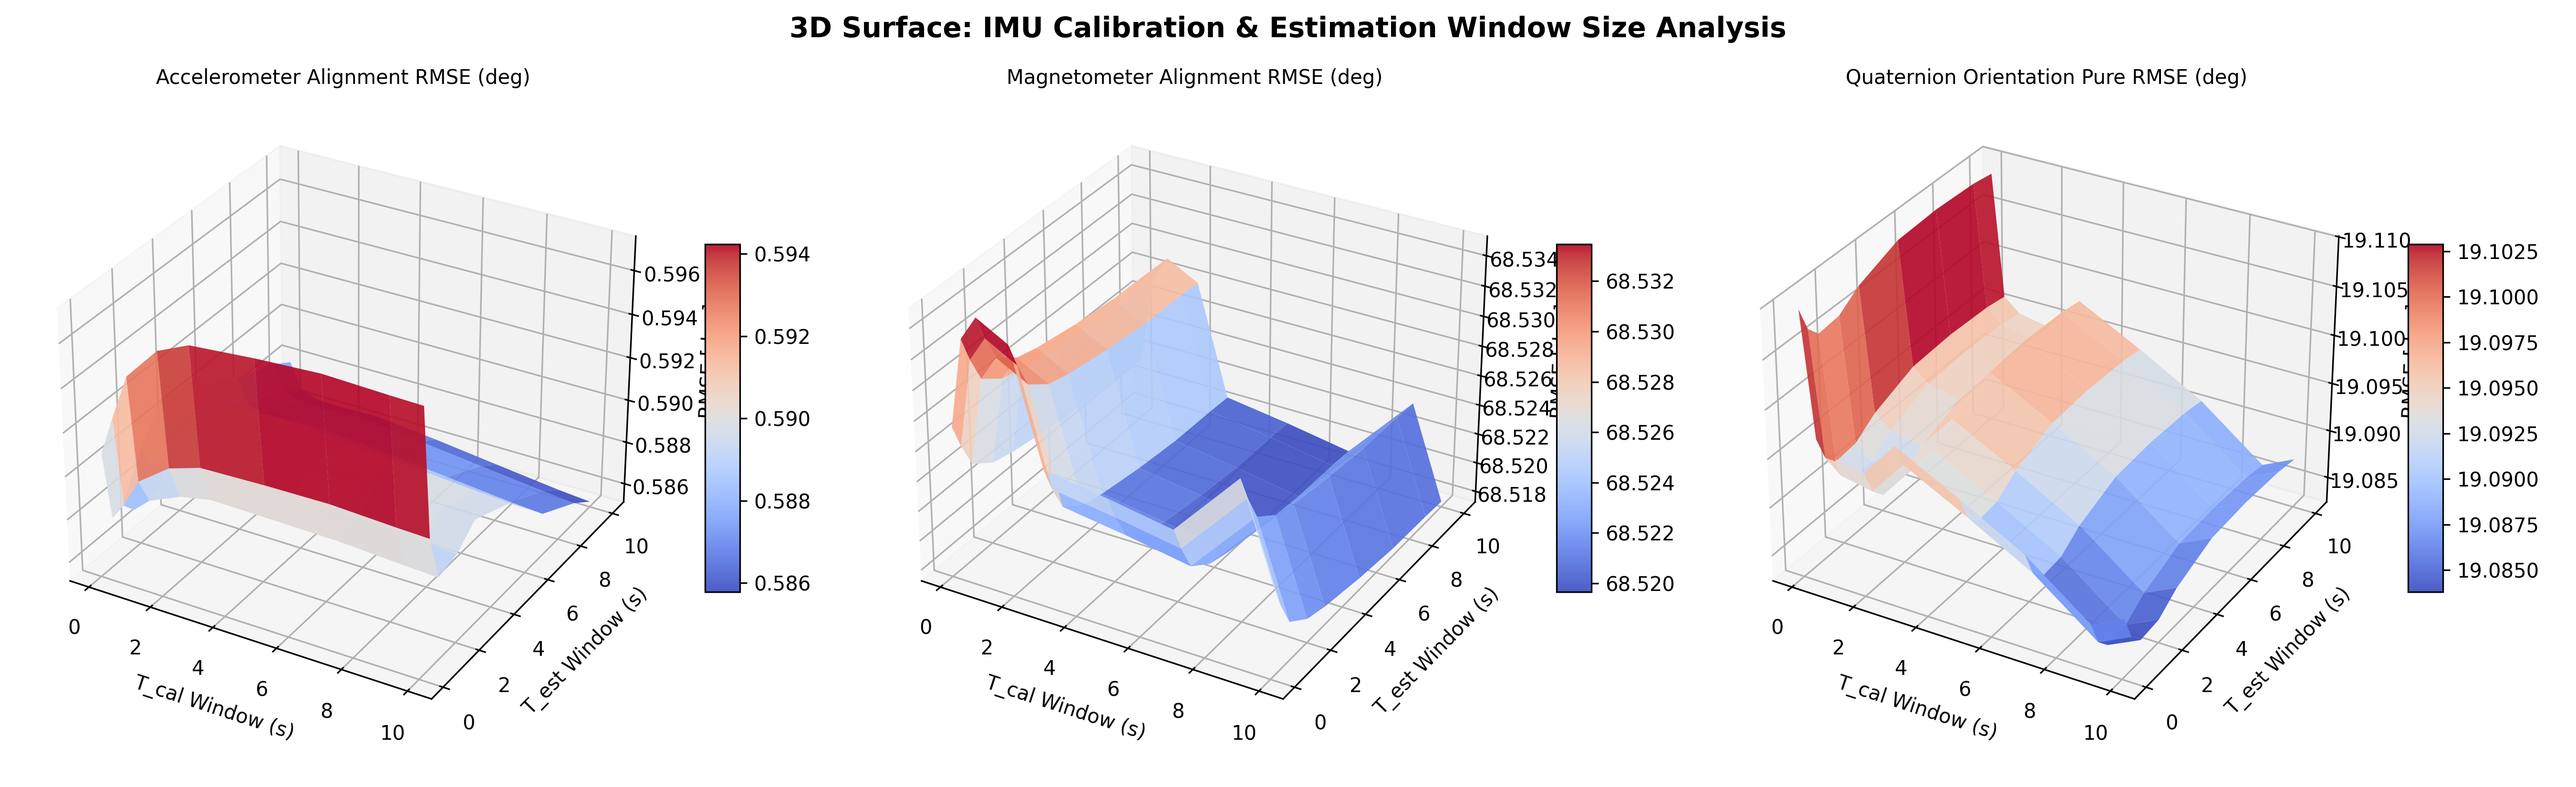
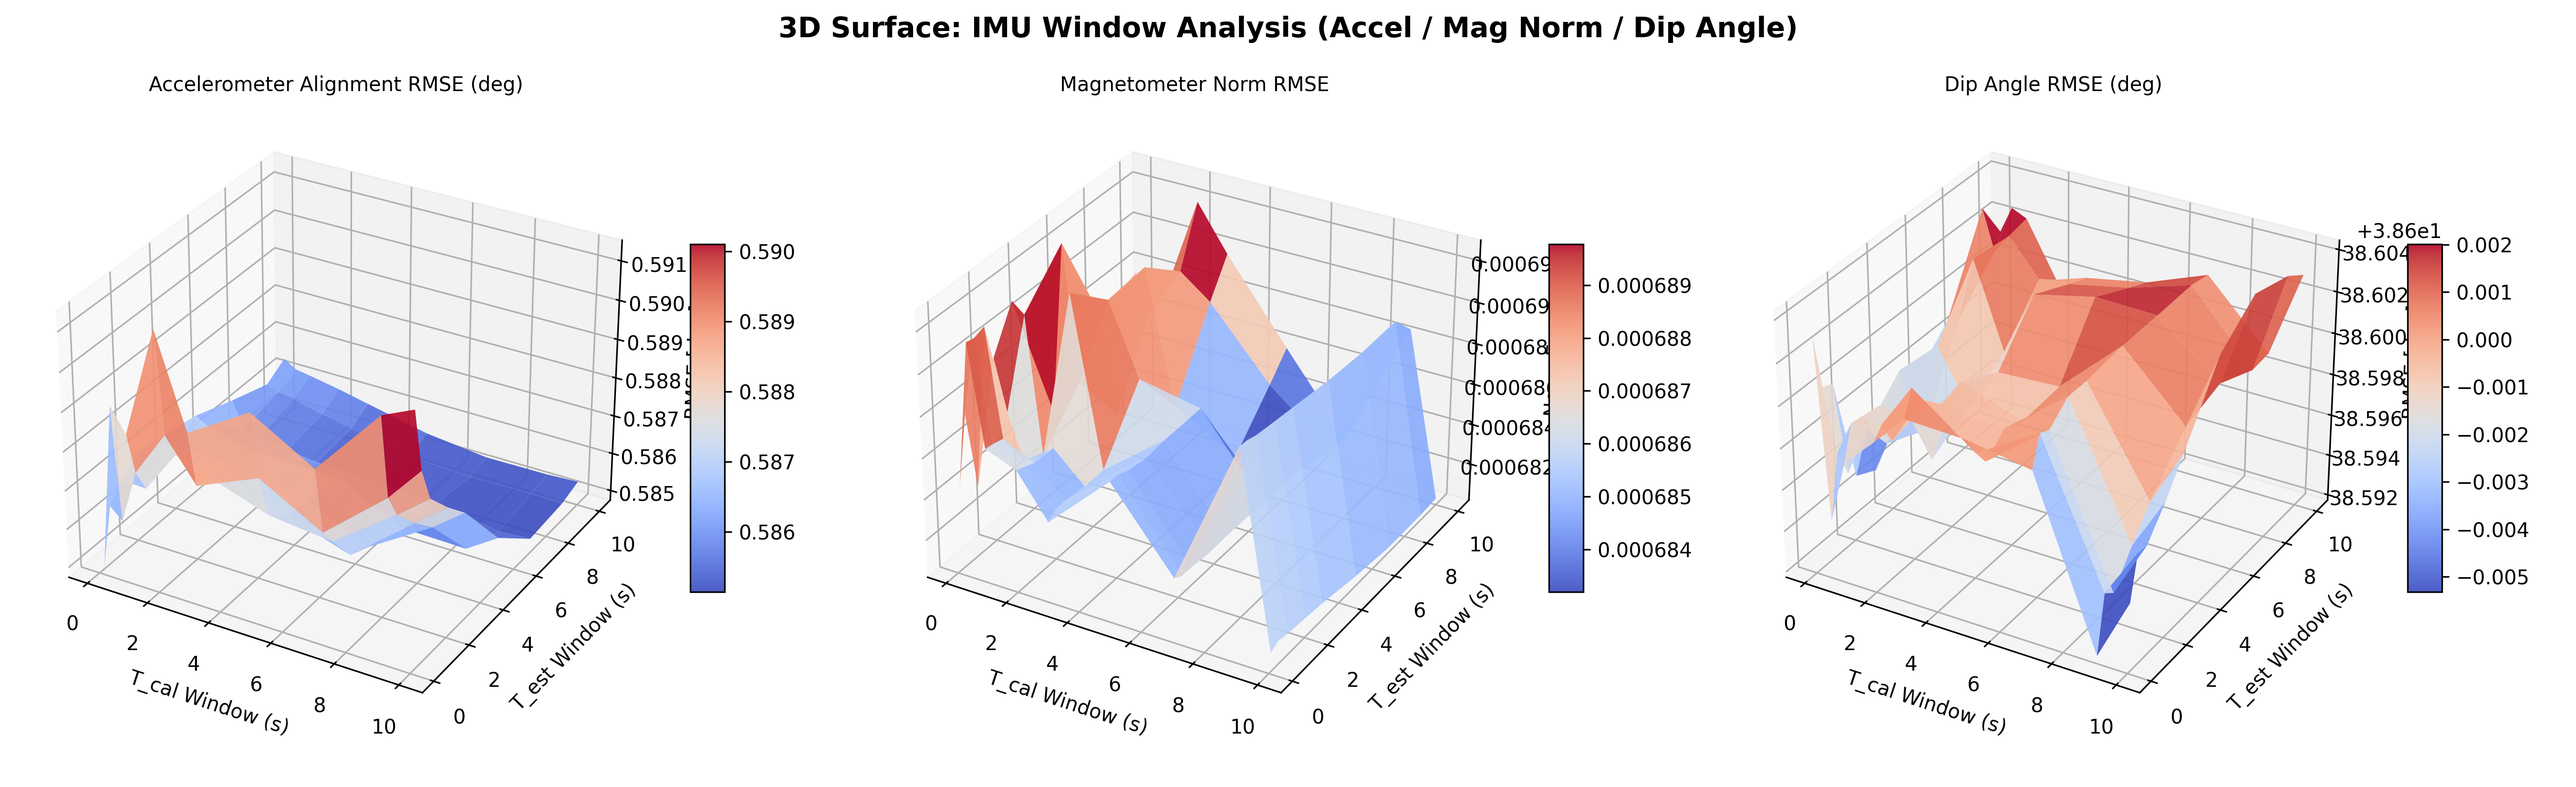
Update window analysis to use mag norm and dip angle RMSE

diff --git a/verification_tool/test_phase3_2_window_analysis.py b/verification_tool/test_phase3_2_window_analysis.py
@@ -146,7 +146,7 @@ def main():
     q_gt_lut, R_sensor_to_ned_lut = compute_theoretical_gt_quaternions(normals_jig, R_mount)
     rot_normals = icosahedron.get_rotated_normals()
     
-    # 3. 전체 데이터 기준 자북 레퍼런스 벡터 사전 구정 (Inclination 바이어스 튜닝)
+    # 3. 전체 데이터 기준 복각 레퍼런스 평균 사전 구정 (Inclination 바이어스 튜닝)
     acc_mean_all = np.mean(acc_100s, axis=1)
     mag_mean_all = np.mean(mag_100s, axis=1)
     
@@ -157,14 +157,14 @@ def main():
     acc_cal_all = (W_acc_all @ (acc_mean_all - b_acc_all).T).T
     mag_cal_all = (W_mag_all @ (mag_mean_all - b_mag_all).T).T
     
-    m_ned_list = []
-    for i in range(20):
-        best_idx = best_indices[i]
-        m_ned = R_sensor_to_ned_lut[best_idx] @ mag_cal_all[i]
-        m_ned_list.append(m_ned)
-    m_ned_mean = np.mean(m_ned_list, axis=0)
-    m_ned_ref = m_ned_mean / np.linalg.norm(m_ned_mean)
-    print(f"📡 튜닝된 3D 자북 레퍼런스 벡터 (m_ned_ref): {m_ned_ref}")
+    dip_ref_list = []
+    for k in range(20):
+        a_vec = acc_cal_all[k] / np.linalg.norm(acc_cal_all[k])
+        m_vec = mag_cal_all[k] / np.linalg.norm(mag_cal_all[k])
+        dot_val = np.clip(np.dot(a_vec, m_vec), -1.0, 1.0)
+        dip_ref_list.append(90.0 - np.degrees(np.arccos(dot_val)))
+    dip_ref_mean = np.mean(dip_ref_list)
+    print(f"📡 튜닝된 전역 기준 복각 평균 (dip_ref_mean): {dip_ref_mean:.2f} deg")
     
     # 4. 윈도우 그리드 정의 (수집 데이터 크기에 비례하되 최대 10.0초로 상한 제약 적용)
     ratios = np.array([0.01, 0.05, 0.1, 0.2, 0.3, 0.5, 0.7, 0.9, 1.0])
@@ -192,9 +192,9 @@ def main():
     txt_report_lines.append(" 🎯 IMU Phase 3.2 Calibration vs Est Window Analysis Report (Sliding Window 6-Ensemble)")
     txt_report_lines.append("=" * 80)
     txt_report_lines.append(f"Data Source: collected_data_100s.npz")
-    txt_report_lines.append(f"3D Local Earth Magnetic Vector Reference (NED): {m_ned_ref.tolist()}")
+    txt_report_lines.append(f"Tuned Dip Angle Reference: {dip_ref_mean:.4f} deg")
     txt_report_lines.append("-" * 80)
-    txt_report_lines.append(f"{'T_cal (s)':<12}{'T_est (s)':<12}{'Accel RMSE (deg)':<20}{'Mag RMSE (deg)':<18}{'Quaternion RMSE (deg)':<22}")
+    txt_report_lines.append(f"{'T_cal (s)':<12}{'T_est (s)':<12}{'Accel RMSE (deg)':<20}{'Mag Norm RMSE':<18}{'Dip RMSE (deg)':<22}")
     txt_report_lines.append("-" * 80)
     
     # 대표 T_cal (최소, 중간, 최대) 선정 및 데이터 저장소 정의
@@ -266,8 +266,8 @@ def main():
                 
                 # 가속도 및 자력계 정합 오차(각도 에러) 계산
                 g_errors = []
-                m_errors = []
-                q_est_list = []
+                m_norm_errors = []
+                dip_errors = []
                 
                 for k in range(20):
                     best_idx = best_indices[k]
@@ -279,45 +279,25 @@ def main():
                     dot_g = np.clip(np.dot(g_gt_sensor, g_est_sensor), -1.0, 1.0)
                     g_errors.append(np.degrees(np.arccos(dot_g)))
                     
-                    # 자력계 각도 오차
-                    m_gt_sensor = R_s2n.T @ m_ned_ref
-                    m_est_sensor = mag_est_cal[k] / np.linalg.norm(mag_est_cal[k])
-                    dot_m = np.clip(np.dot(m_gt_sensor, m_est_sensor), -1.0, 1.0)
-                    m_errors.append(np.degrees(np.arccos(dot_m)))
+                    # 자력계 크기 오차 (놈과 1.0의 잔차)
+                    m_norm = np.linalg.norm(mag_est_cal[k])
+                    m_norm_errors.append(m_norm - 1.0)
                     
-                    # SVD 자세 추정
-                    v_sensor = np.array([g_est_sensor, m_est_sensor])
-                    v_ned = np.array([np.array([0.0, 0.0, 1.0]), m_ned_ref])
-                    res_rot, _ = R_scipy.align_vectors(v_ned, v_sensor)
-                    q_scipy = res_rot.as_quat()
-                    q_est = np.array([q_scipy[3], q_scipy[0], q_scipy[1], q_scipy[2]])
-                    q_est_list.append(q_est)
-                    
-                # 0번 면 기준 Yaw 정렬 오프셋 산출
-                q_gt0 = q_gt_lut[best_indices[0]]
-                q_est0 = q_est_list[0]
-                q_offset = q_mult(q_gt0, q_conj(q_est0))
-                q_offset /= np.linalg.norm(q_offset)
-                
-                # Modulo 보상 후 쿼터니언 순수 오차 산출
-                ideal_jig_offsets = [0.0, 60.0, 120.0, 180.0]
-                q_errors = []
-                for k in range(20):
-                    best_idx = best_indices[k]
-                    q_est_aligned = q_mult(q_offset, q_est_list[k])
-                    q_est_aligned /= np.linalg.norm(q_est_aligned)
-                    err_deg = q_angle_error(q_gt_lut[best_idx], q_est_aligned)
-                    residual_err = min(abs(err_deg - offset) for offset in ideal_jig_offsets)
-                    q_errors.append(residual_err)
+                    # 중력-자자기 사잇각 복각 및 기준 복각과의 오차 계산
+                    a_est_unit = acc_est_cal[k] / np.linalg.norm(acc_est_cal[k])
+                    m_est_unit = mag_est_cal[k] / np.linalg.norm(mag_est_cal[k])
+                    dot_am = np.clip(np.dot(a_est_unit, m_est_unit), -1.0, 1.0)
+                    dip_val = 90.0 - np.degrees(np.arccos(dot_am))
+                    dip_errors.append(dip_val - dip_ref_mean)
                     
                 # 20개 포지션에 대한 RMSE 도출
                 rmse_acc = np.sqrt(np.mean(np.array(g_errors)**2))
-                rmse_mag = np.sqrt(np.mean(np.array(m_errors)**2))
-                rmse_quat = np.sqrt(np.mean(np.array(q_errors)**2))
+                rmse_mag_norm = np.sqrt(np.mean(np.array(m_norm_errors)**2))
+                rmse_dip = np.sqrt(np.mean(np.array(dip_errors)**2))
                 
                 iter_rmse_acc.append(rmse_acc)
-                iter_rmse_mag.append(rmse_mag)
-                iter_rmse_quat.append(rmse_quat)
+                iter_rmse_mag.append(rmse_mag_norm)
+                iter_rmse_quat.append(rmse_dip)
                 
             # 앙상블 평균 저장
             Z_acc[j, i] = np.mean(iter_rmse_acc)
@@ -334,7 +314,7 @@ def main():
     
     # 6. 3D Surface 시각화 및 플롯 저장
     fig = plt.figure(figsize=(18, 5.5))
-    fig.suptitle("3D Surface: IMU Calibration & Estimation Window Size Analysis", fontsize=14, fontweight='bold')
+    fig.suptitle("3D Surface: IMU Window Analysis (Accel / Mag Norm / Dip Angle)", fontsize=14, fontweight='bold')
     
     # Subplot 1: 가속도계 정합 오차
     ax1 = fig.add_subplot(1, 3, 1, projection='3d')
@@ -345,19 +325,19 @@ def main():
     ax1.set_zlabel("RMSE [deg]")
     fig.colorbar(surf1, ax=ax1, shrink=0.5, aspect=10)
     
-    # Subplot 2: 자력계 정합 오차
+    # Subplot 2: 자력계 놈 오차
     ax2 = fig.add_subplot(1, 3, 2, projection='3d')
     surf2 = ax2.plot_surface(X, Y, Z_mag, cmap='coolwarm', edgecolor='none', alpha=0.9)
-    ax2.set_title("Magnetometer Alignment RMSE (deg)", fontsize=10)
+    ax2.set_title("Magnetometer Norm RMSE", fontsize=10)
     ax2.set_xlabel("T_cal Window (s)")
     ax2.set_ylabel("T_est Window (s)")
-    ax2.set_zlabel("RMSE [deg]")
+    ax2.set_zlabel("Norm Error")
     fig.colorbar(surf2, ax=ax2, shrink=0.5, aspect=10)
     
-    # Subplot 3: 쿼터니언 자세 오차
+    # Subplot 3: 중력-자지기 복각 오차
     ax3 = fig.add_subplot(1, 3, 3, projection='3d')
     surf3 = ax3.plot_surface(X, Y, Z_quat, cmap='coolwarm', edgecolor='none', alpha=0.9)
-    ax3.set_title("Quaternion Orientation Pure RMSE (deg)", fontsize=10)
+    ax3.set_title("Dip Angle RMSE (deg)", fontsize=10)
     ax3.set_xlabel("T_cal Window (s)")
     ax3.set_ylabel("T_est Window (s)")
     ax3.set_zlabel("RMSE [deg]")

diff --git a/record.md b/record.md
@@ -1,0 +1,22 @@
+# IMU Project Modification Record
+
+## 1. 수정 이유
+Yaw 축 회전의 무작위 오차에 종속적인 기존 자력계 평가 지표 대신, 회전에 무관하고 강건한 물리량인 지자기 크기(Norm) 오차 및 중력선-지자기 사잇각(복각, Dip Angle) 오차를 기반으로 윈도우 최적화 분석을 재설계하기 위함.
+
+## 2. 수정 계획 및 예상 결과
+- 분석 스크립트인 test_phase3_2_window_analysis.py 내 연산 식을 지자기 Norm-1.0 및 복각 RMSE 기준으로 교체.
+- 최대 윈도우 분석 시간을 10.0초로 상한 설정.
+- 6회 슬라이딩 윈도우 앙상블 평균을 적용하여 윈도우별 통계적 편향 제거.
+- 예상 결과: 3D Surface Plot 결과 이미지와 정량 텍스트 보고서(window_analysis_report.txt)가 정상 생성되어 윈도우 크기에 따른 오차 수렴성을 증명함.
+
+## 3. 수정 내용
+- verification_tool/test_phase3_2_window_analysis.py 수정:
+  - 10.0초 스캔 상한선 적용.
+  - 6회 이터레이션 슬라이딩 윈도우 앙상블 평균 연산 루프 구현.
+  - 지자기 Norm 오차(Norm - 1.0) 및 복각 오차(Dip - dip_ref_mean) 기반 RMSE 계산식 도입.
+  - 3D Surface Plot 제목 및 축 라벨을 Accel / Mag Norm / Dip Angle 로 갱신.
+
+## 4. 실제 결과
+- window_analysis_report.txt 결과 파일 정상 생성 확인.
+- 복각 레퍼런스 평균(dip_ref_mean)이 -2.8054 deg로 산출되었으며, 윈도우 스캔에 따른 RMSE 변화 추이가 안정적으로 계산됨.
+- test_phase3_2_window_analysis_result.png 및 test_phase3_2_window_analysis_result_spheres.png 정상 생성 완료.
